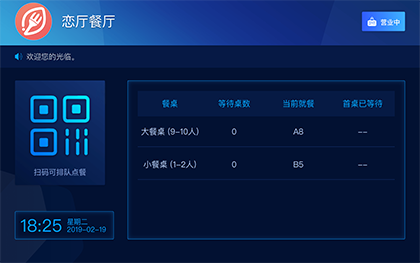
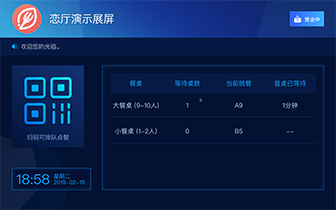
更换展屏演示图片

diff --git a/pages/b/_shortId/tv.scss b/pages/b/_shortId/tv.scss
@@ -270,8 +270,8 @@
     background: url("/img/b/tv/tv_thumbnail.png") no-repeat;
     background-size: 100% 100%;
 
-    width: px2rem(420);
-    height: px2rem(263);
+    width: px2rem(336);
+    height: px2rem(210);
   }
 
   .tv_prompt_label {
